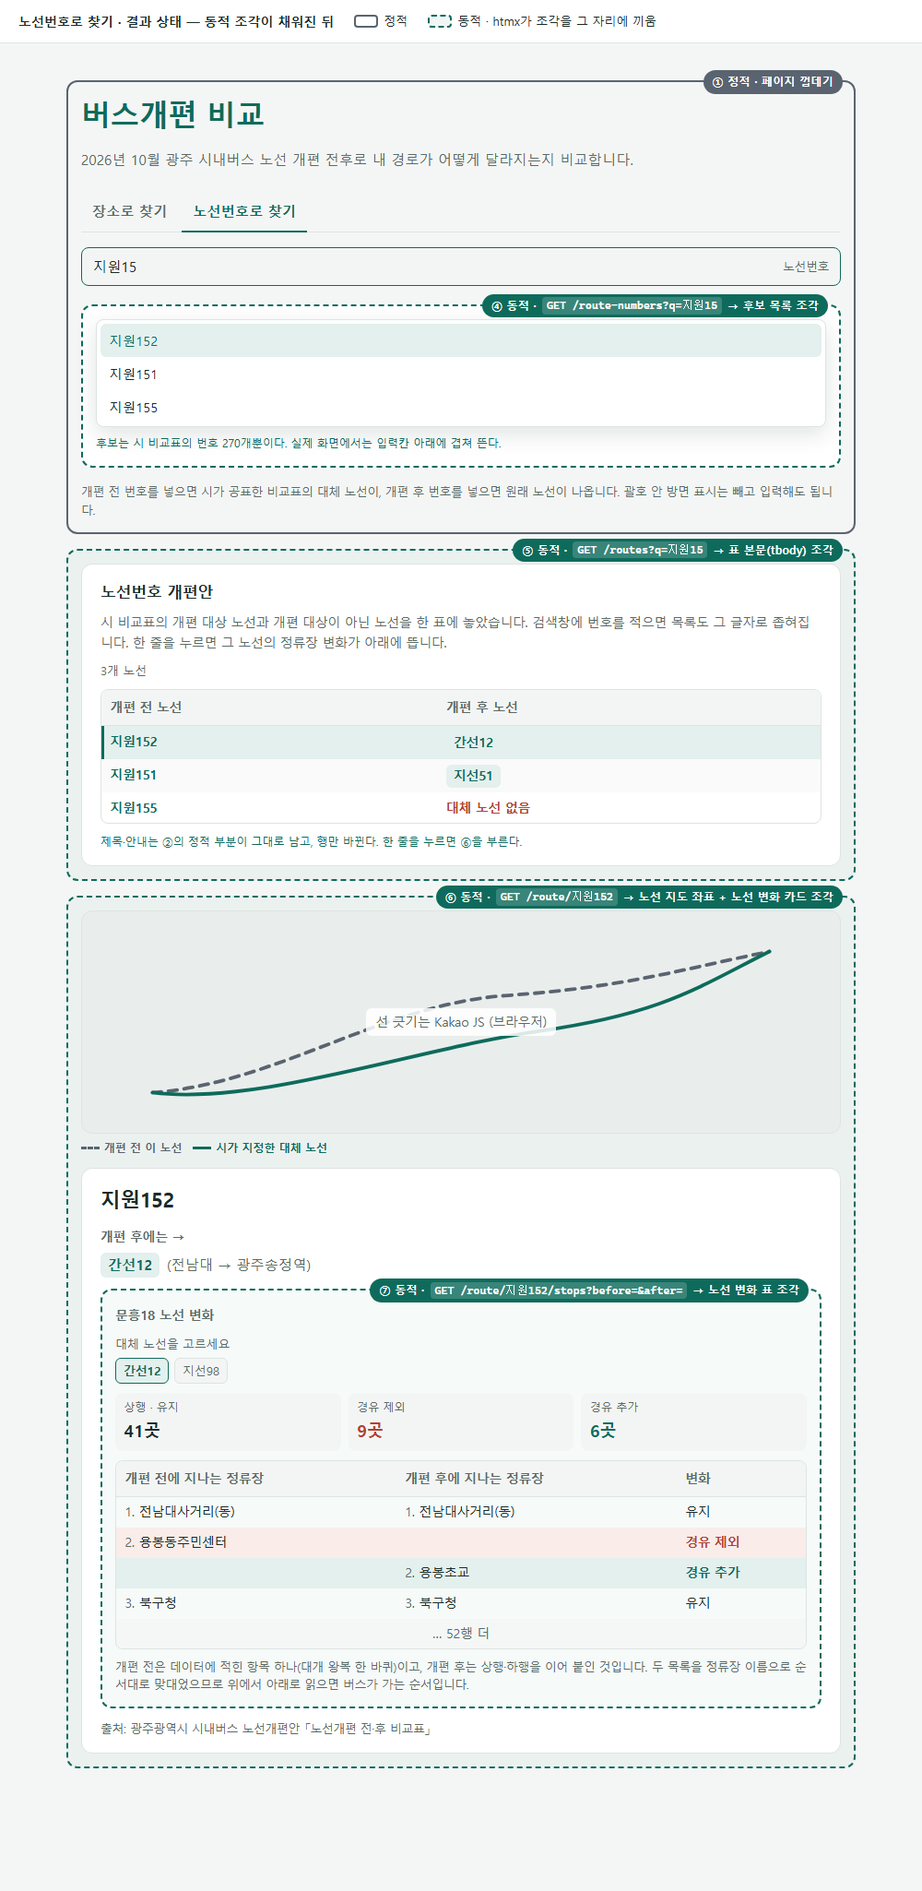
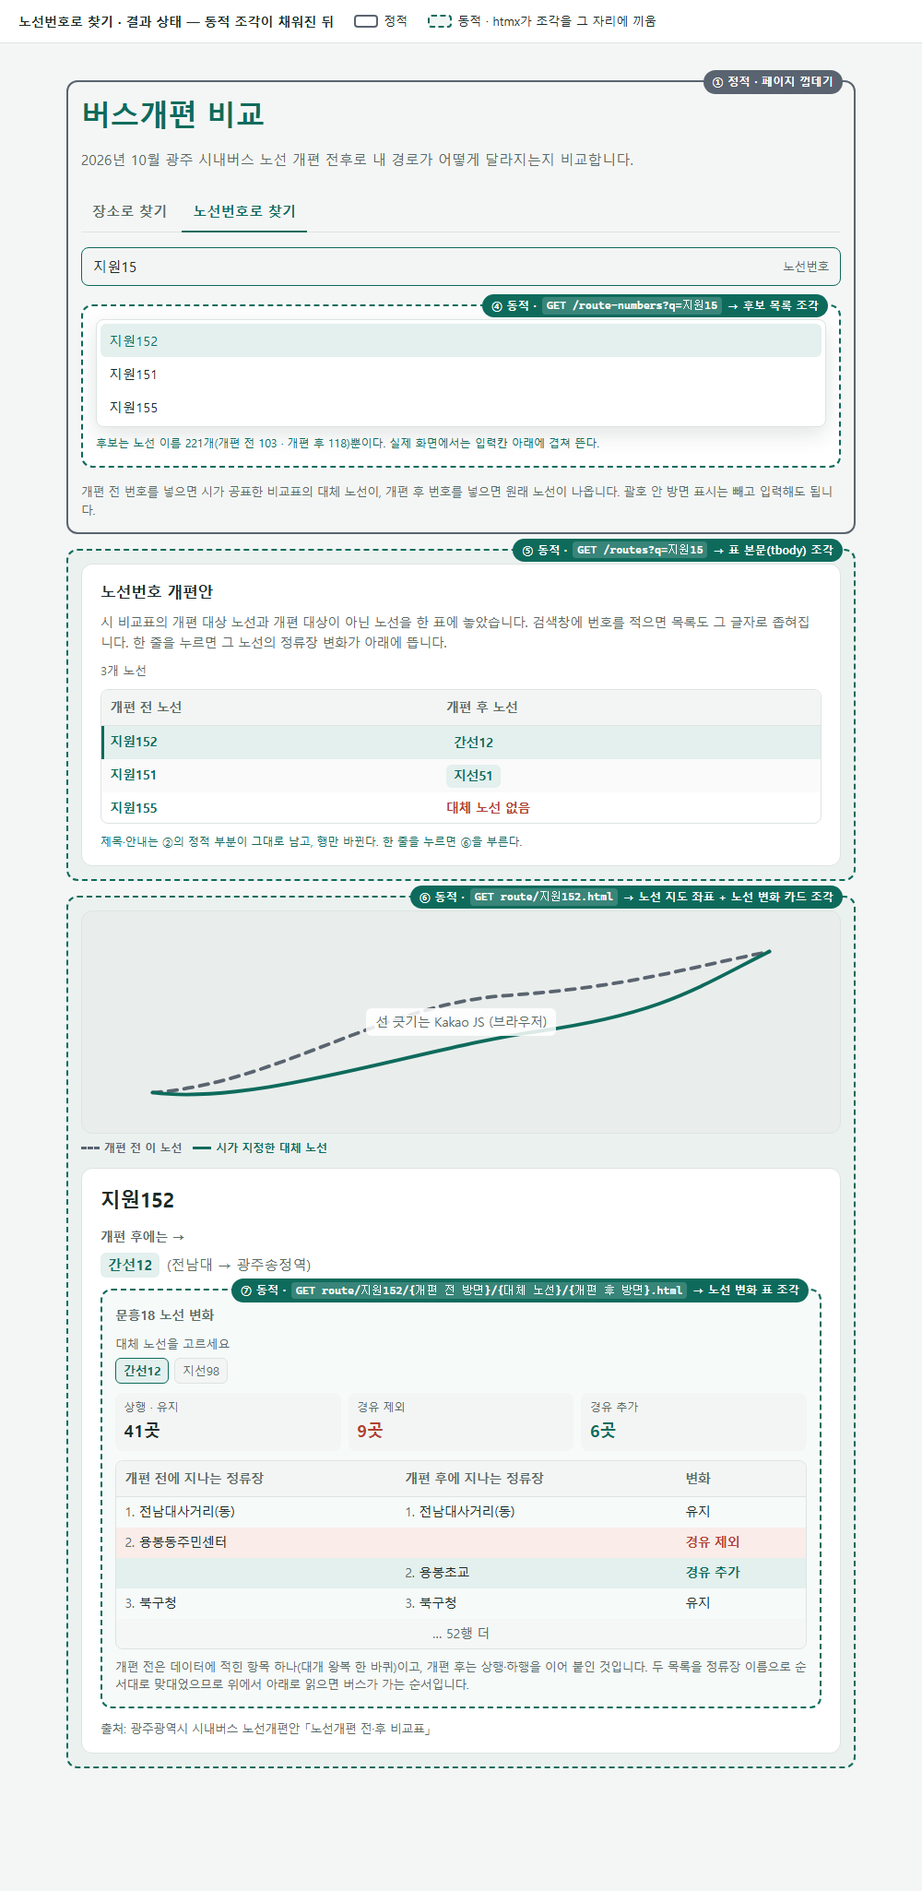
docs: ADR-0006 노선 이름·조각 경로, 번호 잇기 규칙으로 못 찾는 쌍 0, 목업 PNG 갱신
- ADR-0006: 개편 후 노선은 종류+번호, 비교표 숫자만은 급행 아닌 것, 앞 0 무시,
  방면은 개편 후에도(지선97), 노선 이름 띄어쓰기 없음, 표 조각 경로 네 단계
- measure_direction.py에 규칙 적용: 187 번호 쌍 → 표 205개, 못 찾음 11 → 0,
  숨어 있던 오매칭 5쌍(급행03·05·06, 97) 제거. 송정97도 방면 둘로 확인(6개 번호 14행)
- CONTEXT·architecture·ADR-0002/0003·data/README·README 수치와 경로 갱신
- 캔버스 목업 2·3·4 주소·표기·수치 고치고 docs/images PNG 4장 다시 뽑음

Claude-Session: https://claude.ai/code/session_01PcpeT1CrxMx1k4kAZi4GPG

diff --git a/tools/measure_direction.py b/tools/measure_direction.py
@@ -11,8 +11,9 @@
 입력:  data/source/*.csv (고치지 않는다)
 출력:  단계별 개수와 3)에 해당하는 쌍 목록. 값은 docs/architecture.md §6 에 옮긴다.
 
-번호 정규화는 아직 거칠다(숫자만 남김). 그래서 `간선 01` 과 `1` 같은 쌍 몇 개를 못 찾는다 —
-그 수도 함께 센다. 정규화 규칙이 정해지면 여기부터 고친다(docs/architecture.md §8).
+번호를 잇는 규칙은 ADR-0006. 개편 후 노선은 종류+번호(+방면)로 구별하고, 비교표의 숫자만 있는
+표기는 급행 아닌 것으로 읽으며, 앞자리 0은 무시한다. 쌍은 「개편 전 방면 × 대체 노선 × 개편 후 방면」
+단위로 센다 — 노선 변화 표 파일 하나가 쌍 하나다.
 """
 from __future__ import annotations
 
@@ -27,6 +28,9 @@ SOURCE = Path(__file__).resolve().parent.parent / "data" / "source"
 WEAK_RATIO = 0.15
 WEAK_MARGIN = 1.3
 
+# '지선 97(빛그린산단출근)' → kind=지선 num=97 branch=빛그린산단출근. '228' → kind 없음
+ROUTE_RE = re.compile(r"^(?P<kind>[^\d\s(]+)?\s*(?P<num>\d+(?:-\d+)?)\s*(?:\((?P<branch>[^)]*)\))?$")
+
 
 def load(name: str) -> list[dict[str, str]]:
     with io.open(SOURCE / name, encoding="utf-8-sig") as f:
@@ -35,6 +39,27 @@ def load(name: str) -> list[dict[str, str]]:
 
 def split_stops(text: str, sep: str) -> list[str]:
     return [s.strip() for s in text.split(sep) if s.strip()]
+
+
+def parse(name: str) -> tuple[str, str, str]:
+    """노선 표기 → (종류, 번호, 방면). 번호는 앞자리 0을 뗀다('01' → '1'), 방면 없으면 '기본'."""
+    m = ROUTE_RE.match(name.strip())
+    if not m:
+        raise ValueError(name)
+    main, _, tail = m.group("num").partition("-")
+    num = str(int(main)) + ("-" + tail if tail else "")
+    return m.group("kind") or "", num, m.group("branch") or "기본"
+
+
+def find_after(rows: list[dict[str, str]], spelled: str) -> list[dict[str, str]]:
+    """비교표 표기 하나 → 개편 후 행들(방면마다 하나). 종류가 적혀 있으면 그 종류, 없으면 급행 아닌 것."""
+    kind, num, _ = parse(spelled)
+    hits = [r for r in rows if parse(r["버스번호"])[1] == num]
+    if kind:
+        hits = [r for r in hits if parse(r["버스번호"])[0] == kind]
+    elif len({parse(r["버스번호"])[0] for r in hits}) > 1:
+        hits = [r for r in hits if parse(r["버스번호"])[0] != "급행"]
+    return hits
 
 
 def lcs(x: list[str], y: list[str]) -> int:
@@ -48,56 +73,65 @@ def lcs(x: list[str], y: list[str]) -> int:
 
 
 def main() -> None:
-    before = {re.sub(r"\s+", "", r["버스번호"]): r for r in load("광주권역 개편전 노선안.csv")}
-    after = {re.sub(r"\D", "", r["버스번호"]): r for r in load("광주권역 개편후 노선안.csv")}
+    after_rows = load("광주권역 개편후 노선안.csv")
     table = load("노선개편 전후 비교표.csv")
+
+    before: dict[str, list[dict[str, str]]] = {}  # 번호(방면 뗀 것) → 방면 행들
+    for r in load("광주권역 개편전 노선안.csv"):
+        key = re.sub(r"\(.*\)$", "", re.sub(r"\s+", "", r["버스번호"]))
+        before.setdefault(key, []).append(r)
 
     counts = {"1) 기·종점 이름 자동": 0, "2) 겹침 자동(뚜렷)": 0, "3) 겹침 약함": 0, "3) 동률": 0, "번호 못 찾음": 0}
     manual: list[str] = []
     missing: list[str] = []
 
+    pairs: list[tuple[str, dict[str, str], dict[str, str]]] = []
+    number_pairs = 0
     for row in table:
-        b = before.get(re.sub(r"\s+", "", row["기존 노선"]))
+        branches = before.get(re.sub(r"\s+", "", row["기존 노선"]), [])
         for number in split_stops(row["신규(대체) 노선"], ","):
-            a = after.get(re.sub(r"\D", "", number))
-            pair = f"{row['기존 노선']} ↔ {number}"
-            if b is None or a is None:
+            number_pairs += 1
+            hits = find_after(after_rows, number)
+            if not branches or not hits:
                 counts["번호 못 찾음"] += 1
-                missing.append(pair)
+                missing.append(f"{row['기존 노선']} ↔ {number}")
                 continue
+            for b in branches:
+                for a in hits:
+                    pairs.append((f"{b['버스번호']} ↔ {a['버스번호']}", b, a))
 
-            bs, be, as_, ae = b["기점"], b["종점"], a["기점"], a["종점"]
-            if as_ == bs or ae == be or as_ == be or ae == bs:
-                counts["1) 기·종점 이름 자동"] += 1
-                continue
+    for pair, b, a in pairs:
+        bs, be, as_, ae = b["기점"], b["종점"], a["기점"], a["종점"]
+        if as_ == bs or ae == be or as_ == be or ae == bs:
+            counts["1) 기·종점 이름 자동"] += 1
+            continue
 
-            b_up, b_dn = split_stops(b["상행 정류장(순서대로)"], "▶"), split_stops(b["하행 정류장(순서대로)"], "▶")
-            a_up, a_dn = split_stops(a["상행 정류장(순서대로)"], ">"), split_stops(a["하행 정류장(순서대로)"], ">")
-            if not b_dn:  # 순환(하행 0개)은 상행을 뒤집어 견준다 — 표에 채우는 것이 아니라 판정에만 쓴다
-                b_dn = list(reversed(b_up))
+        b_up, b_dn = split_stops(b["상행 정류장(순서대로)"], "▶"), split_stops(b["하행 정류장(순서대로)"], "▶")
+        a_up, a_dn = split_stops(a["상행 정류장(순서대로)"], ">"), split_stops(a["하행 정류장(순서대로)"], ">")
+        if not b_dn:  # 순환(하행 0개)은 상행을 뒤집어 견준다 — 표에 채우는 것이 아니라 판정에만 쓴다
+            b_dn = list(reversed(b_up))
 
-            same = lcs(b_up, a_up) + lcs(b_dn, a_dn)
-            reverse = lcs(b_up, a_dn) + lcs(b_dn, a_up)
-            hi, lo = max(same, reverse), min(same, reverse)
-            base = len(b_up) + len(b_dn)
+        same = lcs(b_up, a_up) + lcs(b_dn, a_dn)
+        reverse = lcs(b_up, a_dn) + lcs(b_dn, a_up)
+        hi, lo = max(same, reverse), min(same, reverse)
+        base = len(b_up) + len(b_dn)
 
-            if hi == lo:
-                counts["3) 동률"] += 1
-                manual.append(f"{pair}  같은 {same} : 반대 {reverse}")
-            elif hi / base < WEAK_RATIO or hi < lo * WEAK_MARGIN:
-                counts["3) 겹침 약함"] += 1
-                manual.append(f"{pair}  같은 {same} : 반대 {reverse}  / 개편 전 정류장 {base}")
-            else:
-                counts["2) 겹침 자동(뚜렷)"] += 1
+        if hi == lo:
+            counts["3) 동률"] += 1
+            manual.append(f"{pair}  같은 {same} : 반대 {reverse}")
+        elif hi / base < WEAK_RATIO or hi < lo * WEAK_MARGIN:
+            counts["3) 겹침 약함"] += 1
+            manual.append(f"{pair}  같은 {same} : 반대 {reverse}  / 개편 전 정류장 {base}")
+        else:
+            counts["2) 겹침 자동(뚜렷)"] += 1
 
-    total = sum(counts.values())
-    print(f"대체 쌍 {total}")
+    print(f"비교표 번호 쌍 {number_pairs} → 방면까지 가른 쌍(표 파일 수) {len(pairs)}")
     for k, v in counts.items():
         print(f"  {k}: {v}")
     print("\n3) 사람이 적을 쌍:")
     for line in manual:
         print("  " + line)
-    print("\n번호 못 찾음 (정규화 규칙 미결):")
+    print("\n번호 못 찾음 (ADR-0006 규칙으로 0이어야 한다):")
     for line in missing:
         print("  " + line)
 

diff --git a/docs/adr/0006-route-name-and-fragment-path.md b/docs/adr/0006-route-name-and-fragment-path.md
@@ -1,0 +1,64 @@
+# 노선 이름은 종류+번호(+방면), 조각 경로는 늘 네 단계
+
+2026-09-03 · 확정 (그릴링 Q1~Q5, `tools/measure_direction.py` 못 찾음 11 → 0)
+
+## 결정
+
+1. **개편 후 노선의 신원은 종류 + 번호.** 종류는 직행·급행·간선·지선, 228·419·518·1187은 종류 없음.
+   급행 03과 간선 03은 다른 노선이다(기·종점 같고 정류장 26 대 47).
+2. **비교표 읽는 규칙 둘.** 종류가 적혀 있으면(「급행03」) 그 종류. 숫자만 적혀 있으면(「03」「1003」) 그 번호를
+   가진 노선 중 **급행 아닌 것**. 번호는 **앞자리 0을 무시**하고 견준다 — 순환01 행만 「1」이라 적혀 있고
+   나머지 행과 시 노선도(『개편 후 노선명.pdf』 119쪽)는 「01」이다.
+3. **방면은 개편 후에도 있다.** 같은 종류+번호의 행이 여럿이면 방면. 개편 후는 지선 97 하나 —
+   지선 97과 지선97(빛그린산단출근)(편도, 하행 없음). 개편 전은 여섯 — 228·두암81·상무62·선운101·
+   송정97·지원152(14행). 접미 없는 행의 방면 이름은 「기본」.
+4. **노선 이름은 종류+번호(+방면), 띄어쓰기 없음.** 「간선01」「급행03」「지선97(빛그린산단출근)」「228」.
+   개편 전은 CSV 표기 그대로 「문흥18」「두암81(각화초교.장등동)」. 화면 버튼·파일 이름·코드가 이 표기를 쓴다.
+   앞 0은 시 표기대로 둔다.
+5. **노선 변화 표 조각 경로는 늘 네 단계.**
+   ```
+   route/{번호}/{개편 전 방면}/{대체 노선}/{개편 후 방면}.html
+   route/문흥18/기본/간선18/기본.html
+   route/두암81/각화초교.장등동/지선81/기본.html
+   route/선운101/빛그린산단/지선97/빛그린산단출근.html
+   ```
+   카드 조각은 그대로 `route/{번호}.html`.
+6. 카드의 버튼 줄은 셋 — **개편 전 방면 선택**(방면 여럿인 6개 노선만) / **대체 노선 선택**(모든 카드) /
+   **개편 후 방면 선택**(고른 대체 노선에 방면이 있을 때만, 지금은 지선97뿐). 없는 줄은 카드에 없다.
+7. 하행 없는 편도 노선의 비고는 "편도 운행 · 하행 없음". 순환은 그대로 "순환 노선 · 하행 없음".
+
+## 왜
+
+숫자만 남기는 정규화(옛 `measure_direction.py`)는 못 찾는 쌍 11개 말고도 **잘못 붙인 쌍 5개**를 숨기고
+있었다 — 급행03·05·06(4쌍)이 간선에, 「97」이 출근 변형에 붙었다. 종류를 신원에 넣지 않으면 이런 오류를
+셀 수도 없다. 비교표가 급행을 뜻할 때만 「급행」을 적는 관행이 일관되므로 그것을 그대로 규칙으로 삼았다.
+
+방면을 개편 후에도 두는 것은 시가 지선97(빛그린산단출근)에 별도 이름과 노선도 한 쪽을 준 노선이기
+때문이다. 선운101에는 방면 「(빛그린산단)」이 있어 이 변형과 짝일 가능성이 있다. 시민이 출근 변형을
+찾을 때 표가 없으면 「대체가 아니다」로 읽힌다.
+
+경로를 늘 네 단계로 두면 빌드 스크립트와 버튼의 `hx-get` 주소가 예외 없이 한 틀에서 나온다. 개편 전
+방면이 이미 「기본」으로 한 단계를 늘 차지하고 있어 같은 논리다. 파일 수는 그대로다.
+
+## 기각
+
+- **비교표 교정 파일**(「순환01 행의 1은 01」 한 줄). 앞 0이 다른 두 노선이 개편 후에 없어 규칙이
+  안전하고, 지킬 파일이 하나 준다.
+- **출근 변형을 대체 노선에서 뺀다**(비교표대로 「97」= 지선 97만). 가장 단순하지만 시가 이름 붙인
+  노선 하나가 화면에서 사라진다.
+- **출근 변형을 별도 대체 노선 버튼으로 편다** `[지선97] [지선97(빛그린산단출근)]`. 방면 개념 없이
+  버튼만 늘리는 것이라 개편 전 방면과 규칙이 달라진다.
+- **번호만 쓰고 03·05·06만 종류를 붙인다.** 예외 규칙이 하나 생긴다.
+- **개편 후 방면이 있을 때만 경로를 한 단계 더 판다.** 파일 셋만 깊어지지만 주소 틀이 둘이 된다.
+- **물음표 방식** `route/문흥18/stops?after=간선18`(목업 2·3에 그려진 것). Pages는 물음표 뒤를 읽어 줄
+  서버가 없어 정적 파일(ADR-0002)과 양립하지 않는다.
+
+## 따라오는 것
+
+- 노선 변화 표 파일은 **205개**(비교표 번호 쌍 187 → 개편 전 방면 × 개편 후 방면). 카드는 103개.
+- 기·종점 정렬(ADR-0003) 실측이 바뀐다 — 사람이 적을 쌍 16 → 18(선운101 두 방면 × 출근 변형).
+  값은 `docs/architecture.md` §6.
+- ADR-0002 경로 예시, ADR-0003 결정 4·6, CONTEXT.md 「종류」「노선 이름」「방면」「개편 전 방면 선택 / …」
+  항목이 이 결정을 따른다.
+- 목업 2·3·4(캔버스)의 조각 주소·「간선18」 표기·수치는 같은 날 고쳤고 `docs/images/` PNG도 다시 뽑았다.
+- 장소 탭(Worker·D1)에서 개편 후 방면을 어떻게 다룰지는 장소 탭 설계 세션의 몫이다.

diff --git a/docs/adr/0003-stop-diff-table-v2.md b/docs/adr/0003-stop-diff-table-v2.md
@@ -32,7 +32,7 @@
 1. **기·종점 이름**이 같거나 서로 바뀌어 있으면 그것으로 정한다 — 187쌍 중 87
 2. 아니면 **정류장 목록이 더 많이 겹치는 쪽**(상행↔상행+하행↔하행 vs 상행↔하행+하행↔상행의 LCS 합)을
    고른다. 차이가 뚜렷할 때만 — 73쌍
-3. 그래도 애매한 쌍(겹침이 적거나 두 방향 차이가 작음)은 `data/기종점정렬표.csv`에 **사람이 적는다** — 16쌍
+3. 그래도 애매한 쌍(겹침이 적거나 두 방향 차이가 작음)은 `data/기종점정렬표.csv`에 **사람이 적는다** — 16쌍 (2026-09-03 개정 2: 18쌍)
 
 실측은 `tools/measure_direction.py`. 기각한 (a) "1단계만 자동, 나머지 89쌍은 사람이 적음"은
 사람 손이 다섯 배 더 간다. 뒤집어 맞댄 쌍은 표 아래에 그 사실을 한 줄로 밝힌다.
@@ -40,7 +40,7 @@
 ## 결정 4. 대체 노선이 여럿이면 대체 노선 선택 (Q4 → a)
 
 번호만 적은 버튼 한 줄 `[18] [10]`. 하나를 누르면 그 노선과 맞댄 표 하나가 나온다. 개편 전 방면이
-여럿인 5개 노선은 방면 버튼 한 줄이 위에 더 붙는다.
+여럿인 5개 노선은 방면 버튼 한 줄이 위에 더 붙는다. (2026-09-03 개정 2: 6개 노선, 버튼 줄 셋, 노선 이름 표기)
 
 기각: 열 늘림(첨단94는 대체가 여덟이라 14열이 되어 못 읽음), 표 여러 개 세로 쌓기(너무 길다).
 대체 노선 하나만 보이면 다른 대체 노선이 덮는 정류장이 「경유 제외」로 보인다. (2026-09-03 개정: 비고로 보완하지 않는다 — 아래 개정 절)
@@ -71,6 +71,18 @@
   다른 대체 노선이 서는 정류장은 경유 제외로만 보이고, 사용자가 그 노선 버튼을 눌러야 안다.
 - 방향 규칙 이름은 **기·종점 정렬**(파일 `data/기종점정렬표.csv`), 줄 규칙 이름은 **기·종점 정류장 대조**.
 - 버튼은 **방면 선택 / 대체 노선 선택** 두 줄로 따로 부른다.
+
+## 2026-09-03 개정 2 (노선 이름과 방면, ADR-0006)
+
+- **결정 3 실측 갱신.** 쌍을 「개편 전 방면 × 대체 노선 × 개편 후 방면」으로 세면 205쌍 — ① 92 · ② 95 ·
+  ③ 사람이 적음 18(겹침 약함 16 + 동률 2). 옛 수치(187쌍, 87·73·16)는 번호만 견주던 때 것이라 급행03·05·06이
+  간선에 붙어 있었다.
+- **결정 4 버튼 표기.** 번호만 `[18] [10]`이 아니라 노선 이름 `[간선18] [지선10]`. 03·05·06은 급행과 간선이
+  따로 있어 번호만으로는 구별이 안 된다. 버튼 줄은 셋 — **개편 전 방면 선택**(6개 노선) / **대체 노선 선택** /
+  **개편 후 방면 선택**(대체 노선에 방면이 있을 때만, 지선97).
+- **결정 6 편도.** 하행 없는 노선이 순환만이 아니다. 지선97(빛그린산단출근)은 편도라 비고는
+  "편도 운행 · 하행 없음". 칸 비우는 방식은 같다.
+- 조각 경로는 `route/{번호}/{개편 전 방면}/{대체 노선}/{개편 후 방면}.html`.
 
 ## 근거 자료
 

diff --git a/data/README.md b/data/README.md
@@ -17,10 +17,12 @@
 
 - **정류장 구분자가 파일마다 다르다.** 개편 전은 `▶`, 개편 후는 `>`.
 - **번호 표기가 파일마다 다르다.** 개편 후 노선안은 `간선 01`·`급행 03`(등급 + 공백), 비교표는 `1`·`급행03`.
-  개편 전 노선안은 방면 접미가 붙는다(`228(구151.화순사평)`), 비교표는 `228`. 정규화 규칙은 미결
-  (`docs/architecture.md` §8).
-- **방면.** 개편 전 노선안에서 같은 번호가 행 여럿인 것: 228(2) · 두암81(4) · 상무62(2) · 선운101(2) ·
-  지원152(2). `송정97(봉정행)`은 노선안에만 있고 비교표에 없다.
+  개편 전 노선안은 방면 접미가 붙는다(`228(구151.화순사평)`), 비교표는 `228`. 잇는 규칙은 ADR-0006 —
+  (종류, 번호, 방면)으로 갈라 견주고, 숫자만 적힌 것은 급행 아닌 것, 앞 0은 무시. 비교표 순환01 행만 `1`이다.
+- **방면.** 같은 종류+번호가 행 여럿인 것. 개편 전: 228(2) · 두암81(4) · 상무62(2) · 선운101(2) ·
+  송정97(2, `송정97`과 `송정97(봉정행)`) · 지원152(2). 개편 후: 지선 97(2, `지선 97`과 `지선 97(빛그린산단출근)`).
+  접미 없는 행의 방면 이름은 「기본」.
+- **급행 03·05·06과 간선 03·05·06이 따로 있다.** 기·종점이 같고 정류장 수만 다르다. 숫자만 남기면 섞인다.
 - **하행 0개.** 개편 전 7행(순환01, 상무62 2행, 두암81 4행), 개편 후 1행(지선 97(빛그린산단출근)).
 - **대체 노선 없음.** 비교표 1행(`두암181`, 신규 칸 비어 있음).
 - **명칭 변경은 ID 단위**라 같은 옛 이름이 두 줄씩이고, 새 이름이 방향별로 갈라진다(1번출구/2번출구).
@@ -35,5 +37,5 @@
 
 ## 기종점정렬표.csv — 사람이 적는 기·종점 정렬 (아직 없음)
 
-열: `개편전번호, 방면, 대체번호, 개편전상행이맞닿는쪽`(상행/하행). 자동으로 못 정한 16쌍이 대상.
+열: `개편전번호, 방면, 대체번호, 개편전상행이맞닿는쪽`(상행/하행). 자동으로 못 정한 18쌍이 대상.
 목록은 `python tools/measure_direction.py`가 낸다.

diff --git a/docs/adr/0002-route-tab-fragments-built-at-build-time.md b/docs/adr/0002-route-tab-fragments-built-at-build-time.md
@@ -8,18 +8,21 @@
 빌드 스크립트가 CSV를 읽어 **HTML 파일로 미리 써 두고** Pages에 올리며, htmx는 그 파일을 받아 끼운다.
 
 ```
-out/route/문흥18.html              ← 결과 카드: 번호 · 대체 노선 · 방면 선택·대체 노선 선택 버튼 [18][10]
-out/route/문흥18/기본/18.html      ← 문흥18(방면 기본) ↔ 간선18 노선 변화 표
-out/route/문흥18/기본/10.html      ← 문흥18 ↔ 지선10
-out/route/두암81/각화초교.장등동/81.html   ← 방면이 여럿인 노선은 방면 디렉터리가 하나 더
+out/route/문흥18.html                        ← 결과 카드: 노선 이름 · 대체 노선 · 버튼 줄 [간선18][지선10]
+out/route/문흥18/기본/간선18/기본.html        ← 문흥18(방면 기본) ↔ 간선18(방면 기본) 노선 변화 표
+out/route/문흥18/기본/지선10/기본.html        ← 문흥18 ↔ 지선10
+out/route/두암81/각화초교.장등동/지선81/기본.html
+out/route/선운101/빛그린산단/지선97/빛그린산단출근.html
 ```
 
-노선 111개, 표 200개 안팎(비교표의 대체 쌍 187 + 방면 곱). 파일 하나 10KB 안팎.
+경로는 늘 `route/{번호}/{개편 전 방면}/{대체 노선}/{개편 후 방면}.html` 네 단계, 방면 없으면 「기본」
+(2026-09-03 ADR-0006으로 고침. 처음엔 `route/문흥18/기본/18.html` 세 단계였다).
+카드 103개, 표 205개(비교표의 번호 쌍 187 × 개편 전·후 방면). 파일 하나 10KB 안팎.
 Worker와 D1은 이 탭에 관여하지 않는다.
 
 ## 왜
 
-입력이 유한하다. 이 탭이 답할 수 있는 질문은 「개편 전 번호 × 방면 × 대체 노선」 200개 안팎이
+입력이 유한하다. 이 탭이 답할 수 있는 질문은 「개편 전 번호 × 방면 × 대체 노선 × 개편 후 방면」 205개가
 전부이고, 데이터(시 공표 CSV)는 고정이다. 요청마다 같은 답을 다시 계산할 이유가 없다.
 
 정적 파일이면 Worker가 죽어도, D1이 비어 있어도 이 탭은 산다. 부품이 Pages 하나뿐이라 지킬 것도

diff --git a/README.md b/README.md
@@ -10,7 +10,7 @@
 
 1. `CONTEXT.md` — 용어. 방면·대체 노선·조각·유지/경유 제외/경유 추가 같은 말의 뜻
 2. `docs/architecture.md` — 구조와 부품 역할, 두 탭의 정적/동적 분할, 데이터 흐름, 결정 요약
-3. `docs/adr/` — 되돌리기 어려운 결정 다섯과 그 이유
+3. `docs/adr/` — 되돌리기 어려운 결정 여섯과 그 이유
 4. `data/README.md` — 원천 CSV 6개의 열과 행 수, 알아 둘 함정
 5. **모듈 지도** — https://claude.ai/code/artifact/6977a9d4-929e-40d8-a252-9620cb46f86b
    탭마다 두 장: 모듈 지도(화면 조각 → 화면 모듈 → 조각 → 만드는 곳(빌드 스크립트 / Worker) → 데이터, 정적/동적·용어·데이터 있음/예정)와
@@ -48,6 +48,6 @@
 
 ![조각 출처 a vs b](docs/images/mock-4-fragment-source.png)
 
-## 상태 (2026-09-02)
+## 상태 (2026-09-03)
 
-설계 결정만 있고 코드는 없다. 다음 단계는 `docs/architecture.md` §9 「다음 할 일」.
+설계 결정만 있고 코드는 없다. 번호 잇기 규칙은 ADR-0006으로 닫혔고 `tools/measure_direction.py`가 못 찾는 쌍 0으로 재현한다. 다음 단계는 `docs/architecture.md` §9 「다음 할 일」.
